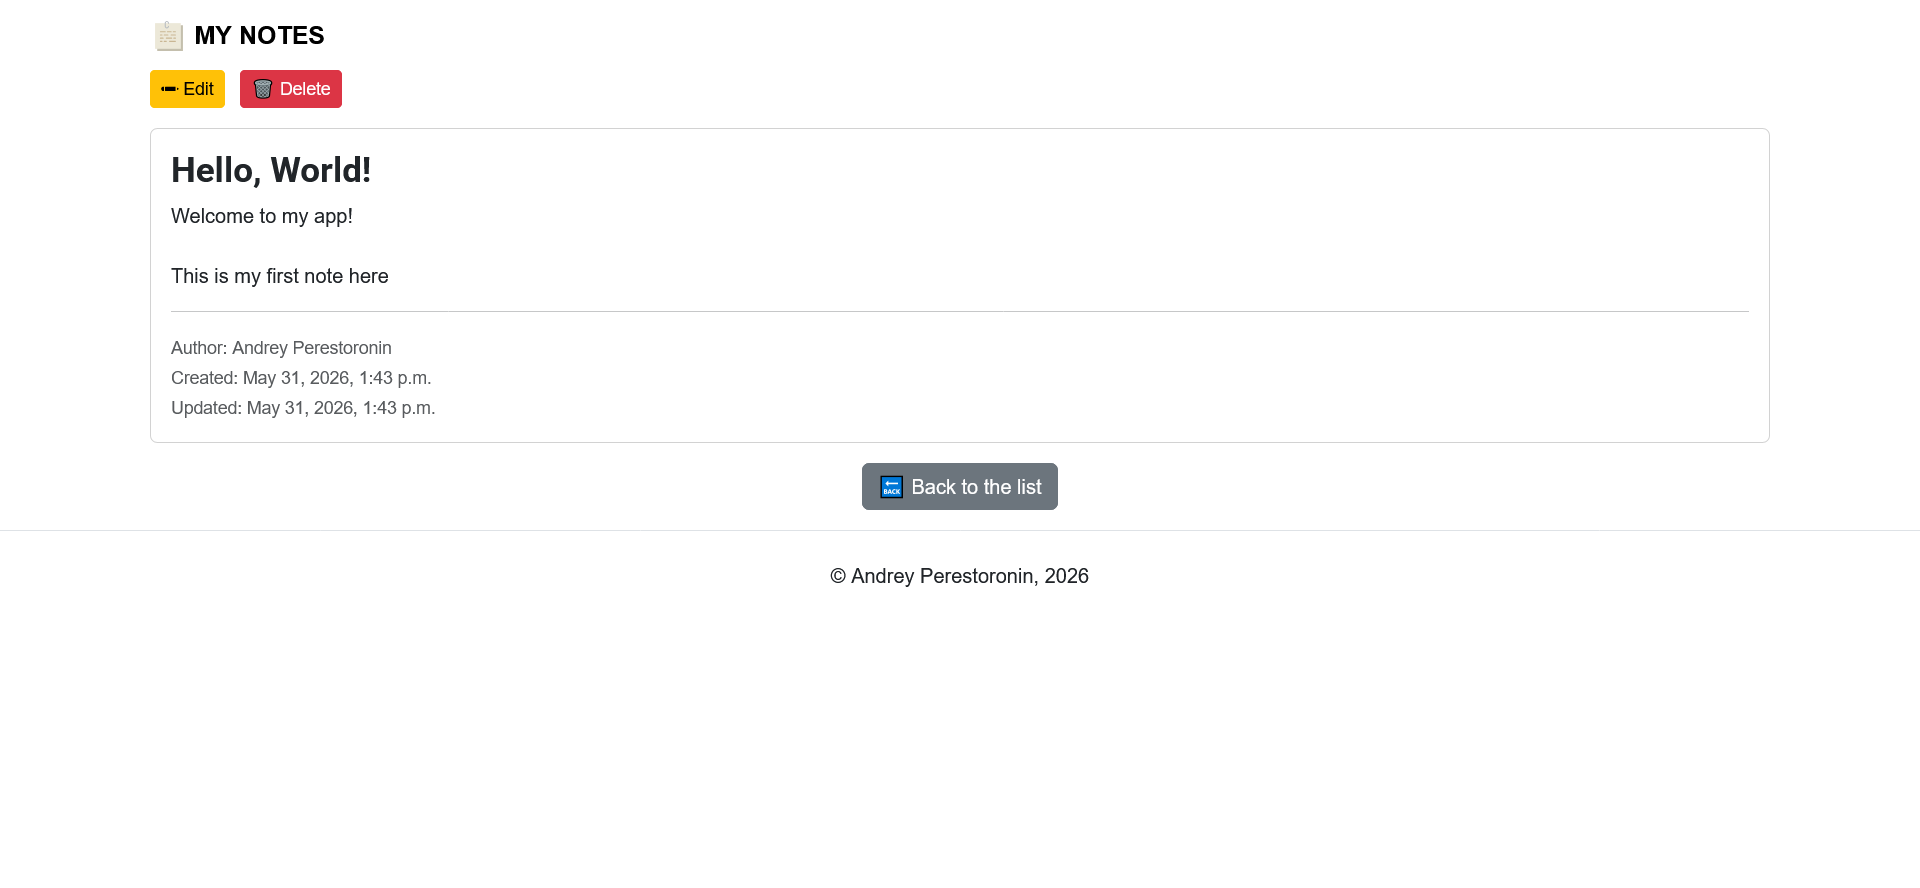
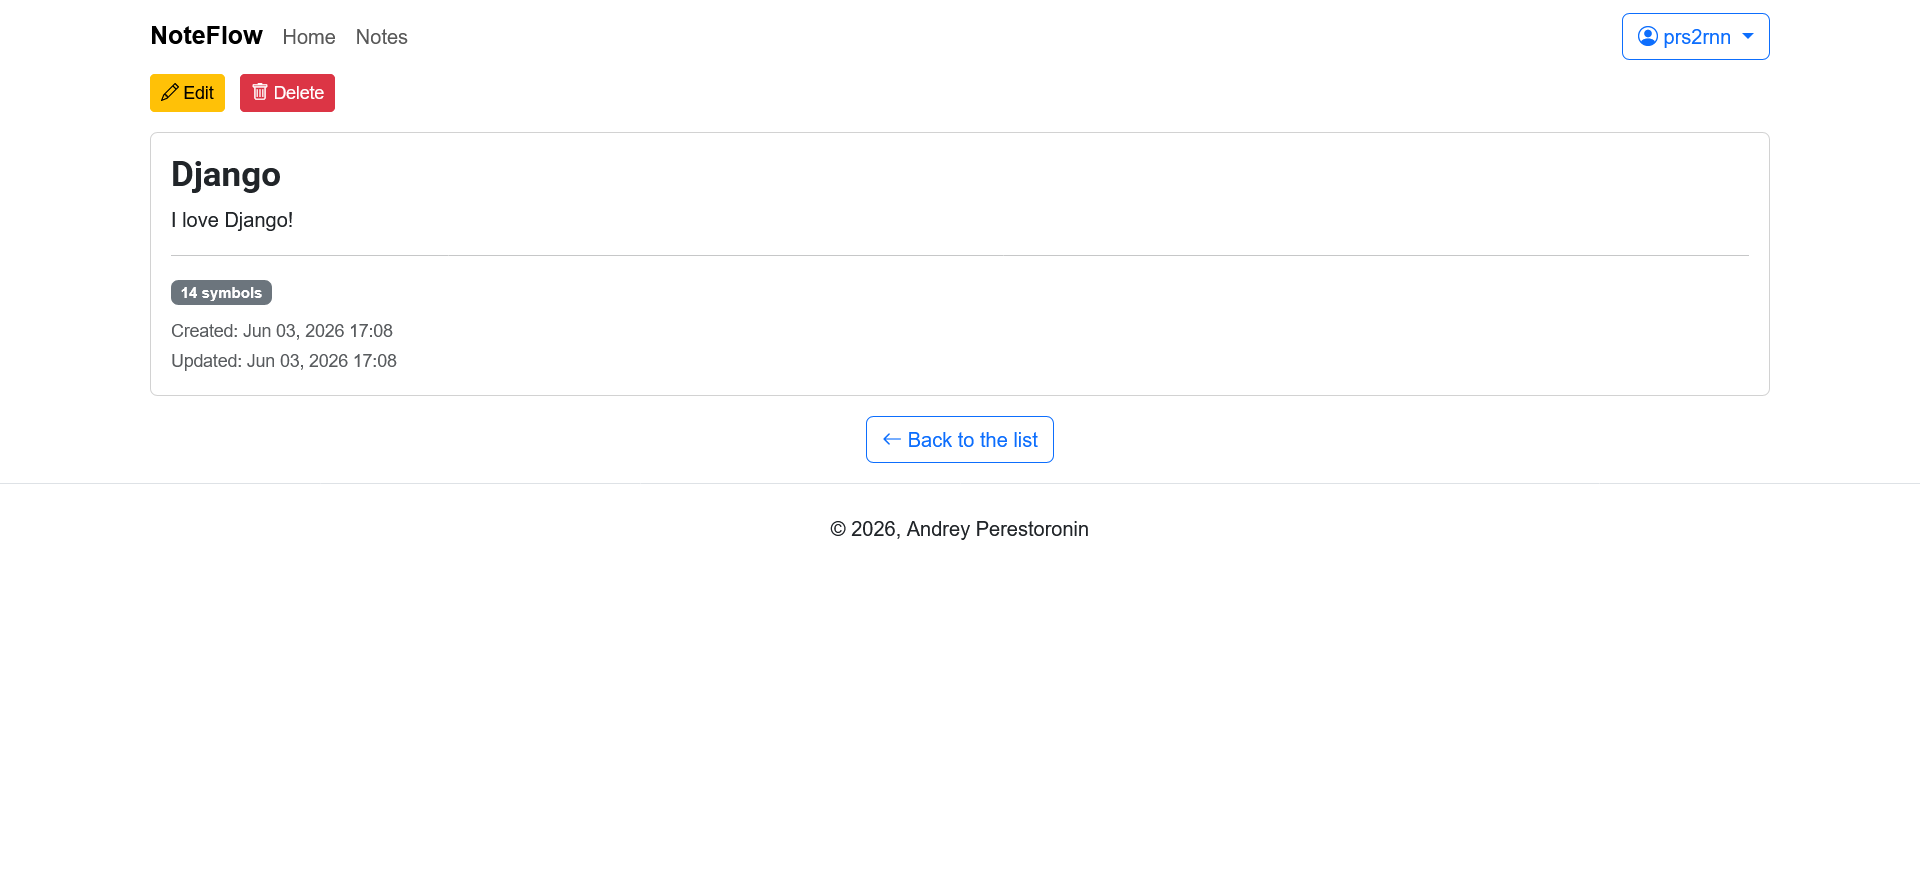
docs: update readme

diff --git a/README.md b/README.md
@@ -1,6 +1,7 @@
 ![Python](https://img.shields.io/badge/Python-3.14-blue)
 ![Django](https://img.shields.io/badge/Django-6.x-green)
 ![Bootstrap](https://img.shields.io/badge/Bootstrap-5-purple)
+![Docker](https://img.shields.io/badge/docker-ready-blue)
 
 # Django Notes App
 
@@ -13,15 +14,16 @@ A note-taking web application built with Django 6.
 * Edit notes
 * Delete notes
 * Bootstrap 5 UI
-* Author field
-* Creation and update timestamps
+* User authentication
+* Search
+* Pagination
+* Profile
 
 ## Tech Stack
 
 * Python 3
 * Django 6
 * Bootstrap 5
-* SQLite
 
 ## Installation
 
@@ -47,7 +49,7 @@ make migrate
 Run server:
 
 ```bash
-make run
+make runserver
 ```
 
 Open:
@@ -57,15 +59,26 @@ http://127.0.0.1:8000/
 ## Screenshots
 
 ![](./screenshots/home.png)
+![](./screenshots/notes.png)
 ![](./screenshots/details.png)
-![](./screenshots/edit.png)
-![](./screenshots/delete.png)
 
 ## Future Improvements
 
-* User authentication
-* Search
 * Categories
 * Tags
-* Pagination
 * REST API
+
+## Contributing
+
+Contributions are welcome!
+
+You can help by:
+
+- Reporting bugs
+- Suggesting features
+- Improving architecture
+- Writing tests
+
+## License
+
+This project is licensed under the MIT License.
